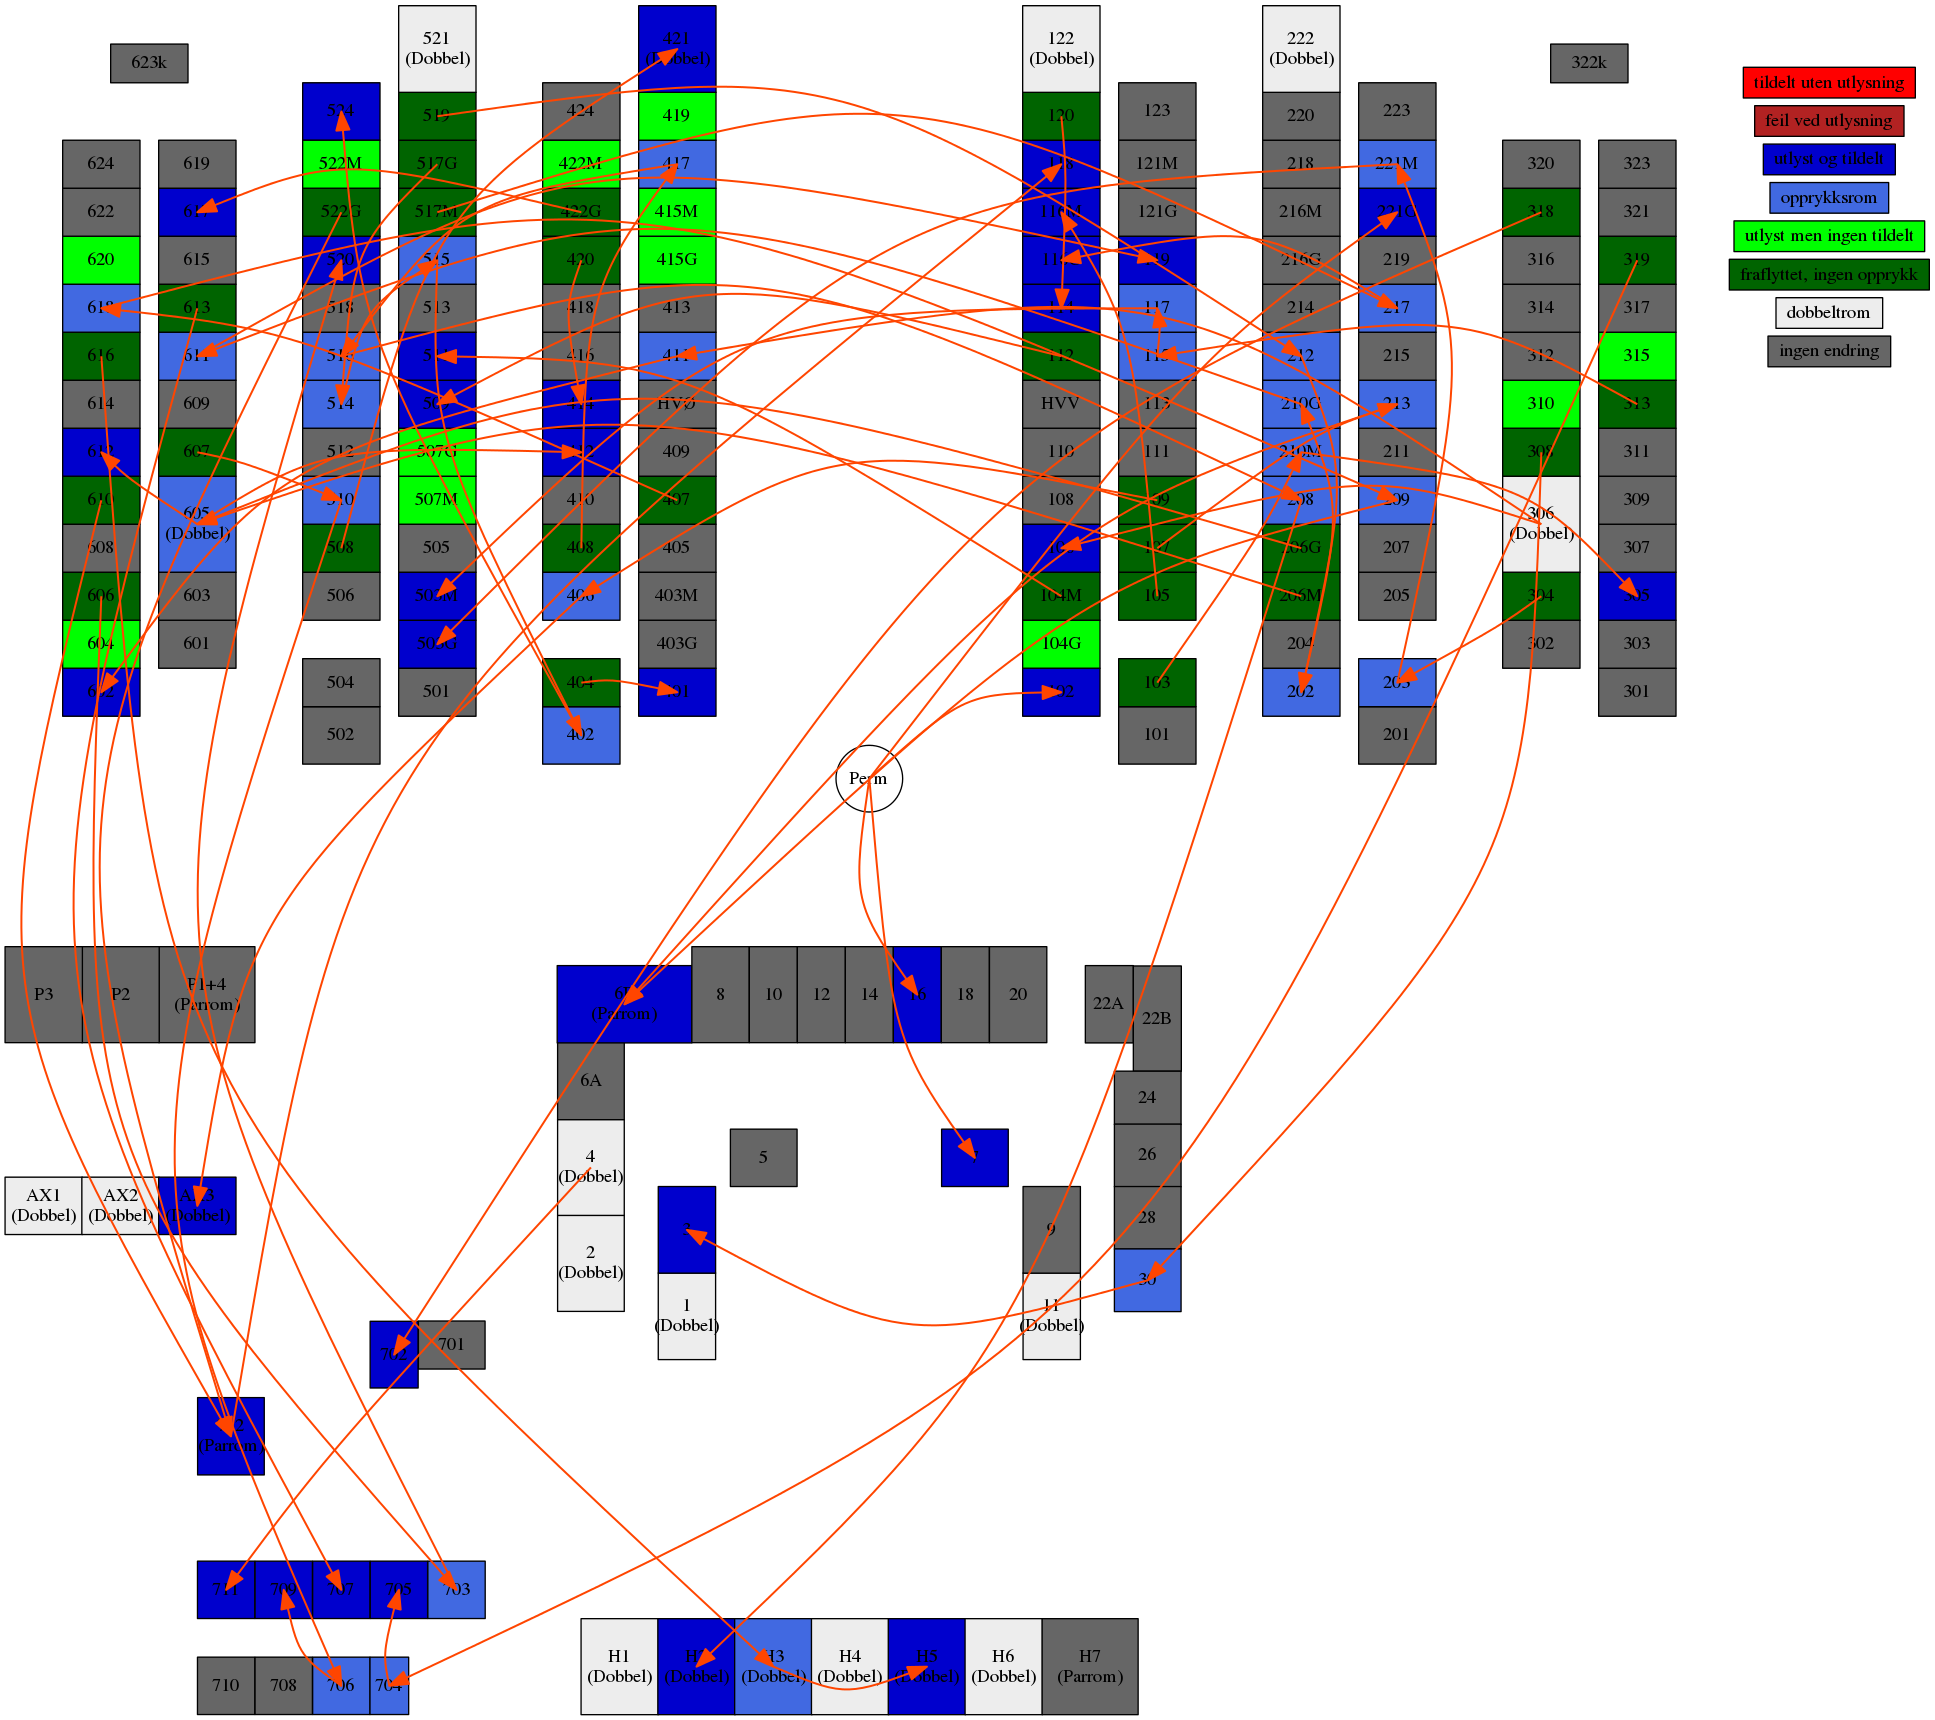
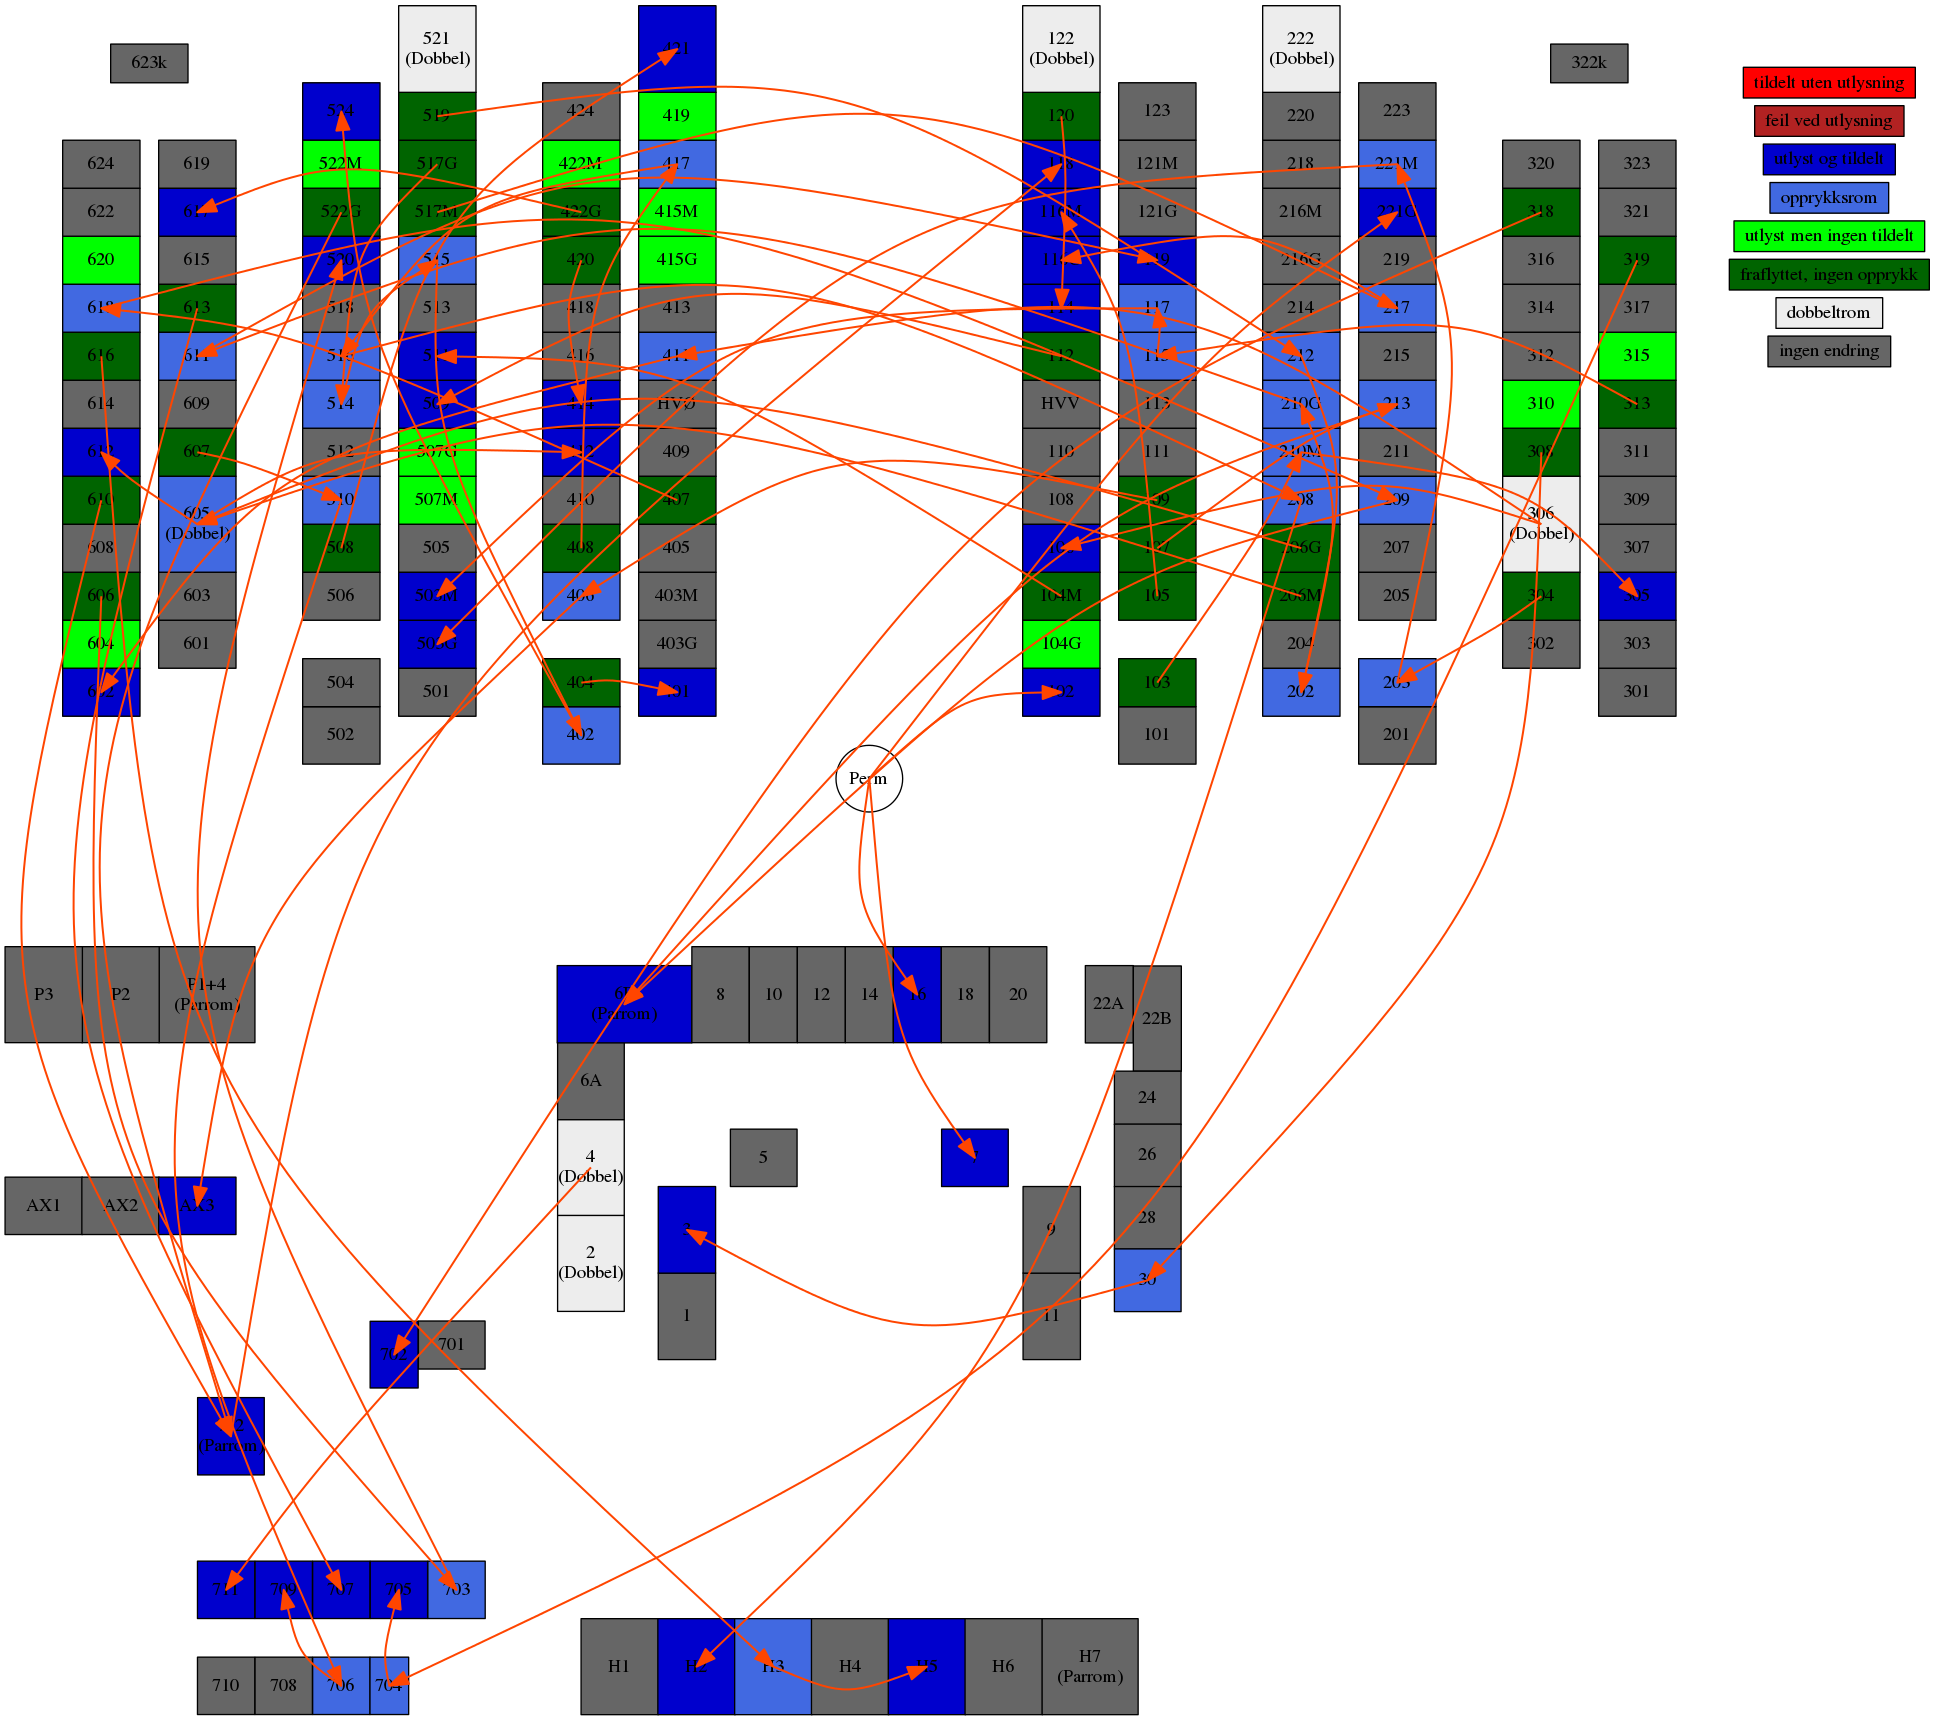
Oppdater liste over dobbeltrom

diff --git a/gendot.py b/gendot.py
@@ -372,23 +372,23 @@ dobbeltrom = [
 	"222",
 	"306",
 	#"402",
-	"421",
+	#"421",
 	#"502",
 	"521",
 	"605",
-	"1",
+	#"1",
 	"2",
 	"4",
-	"11",
-	"AX1",
-	"AX2",
-	"AX3",
-	"H1",
-	"H2",
-	"H3",
-	"H4",
-	"H5",
-	"H6",
+	#"11",
+	#"AX1",
+	#"AX2",
+	#"AX3",
+	#"H1",
+	#"H2",
+	#"H3",
+	#"H4",
+	#"H5",
+	#"H6",
 ]
 
 parrom = [
